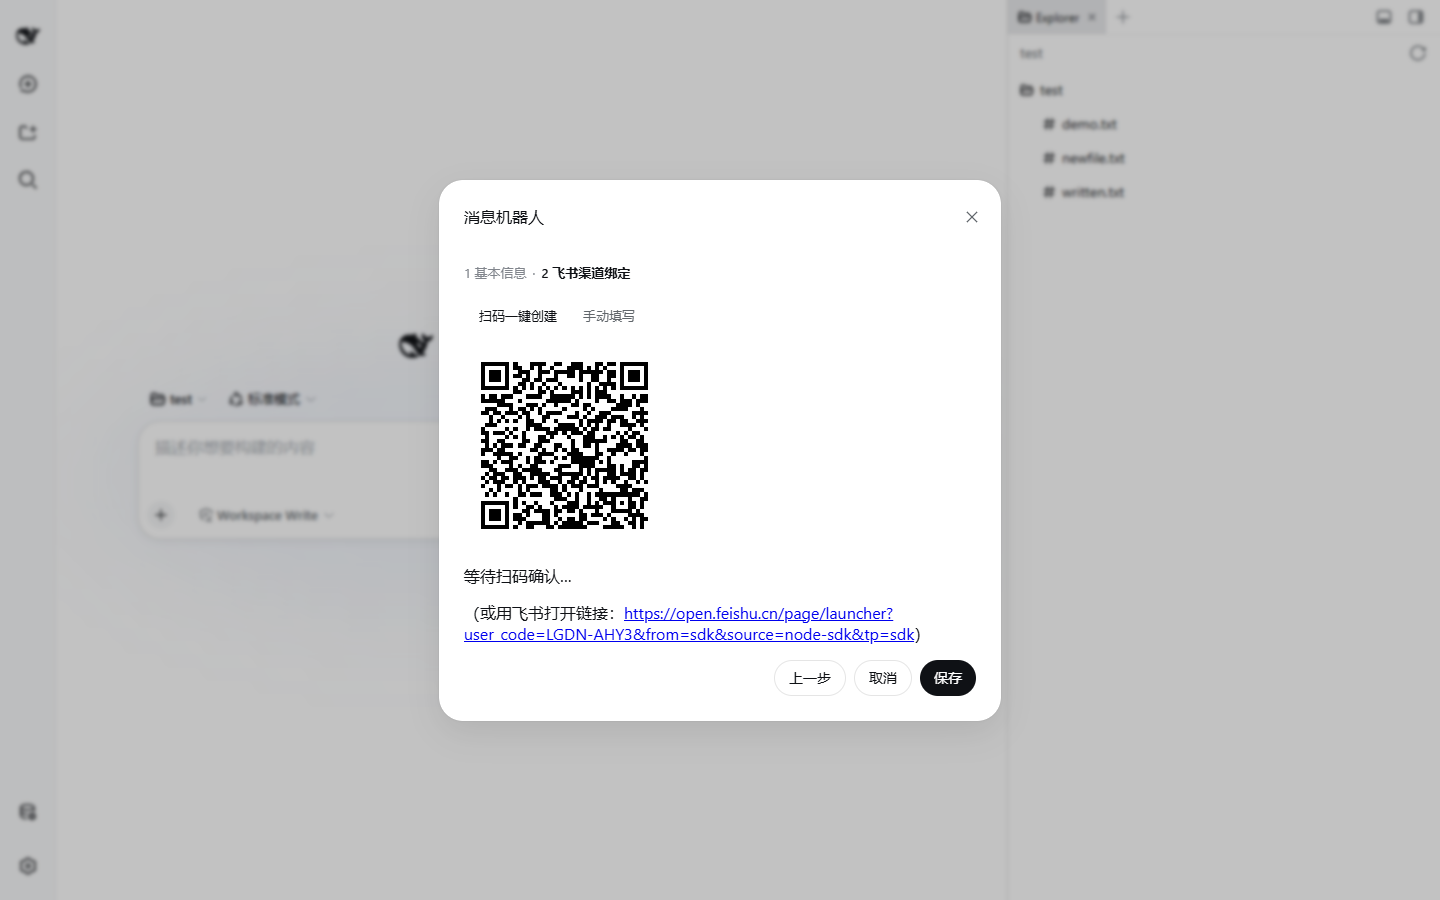
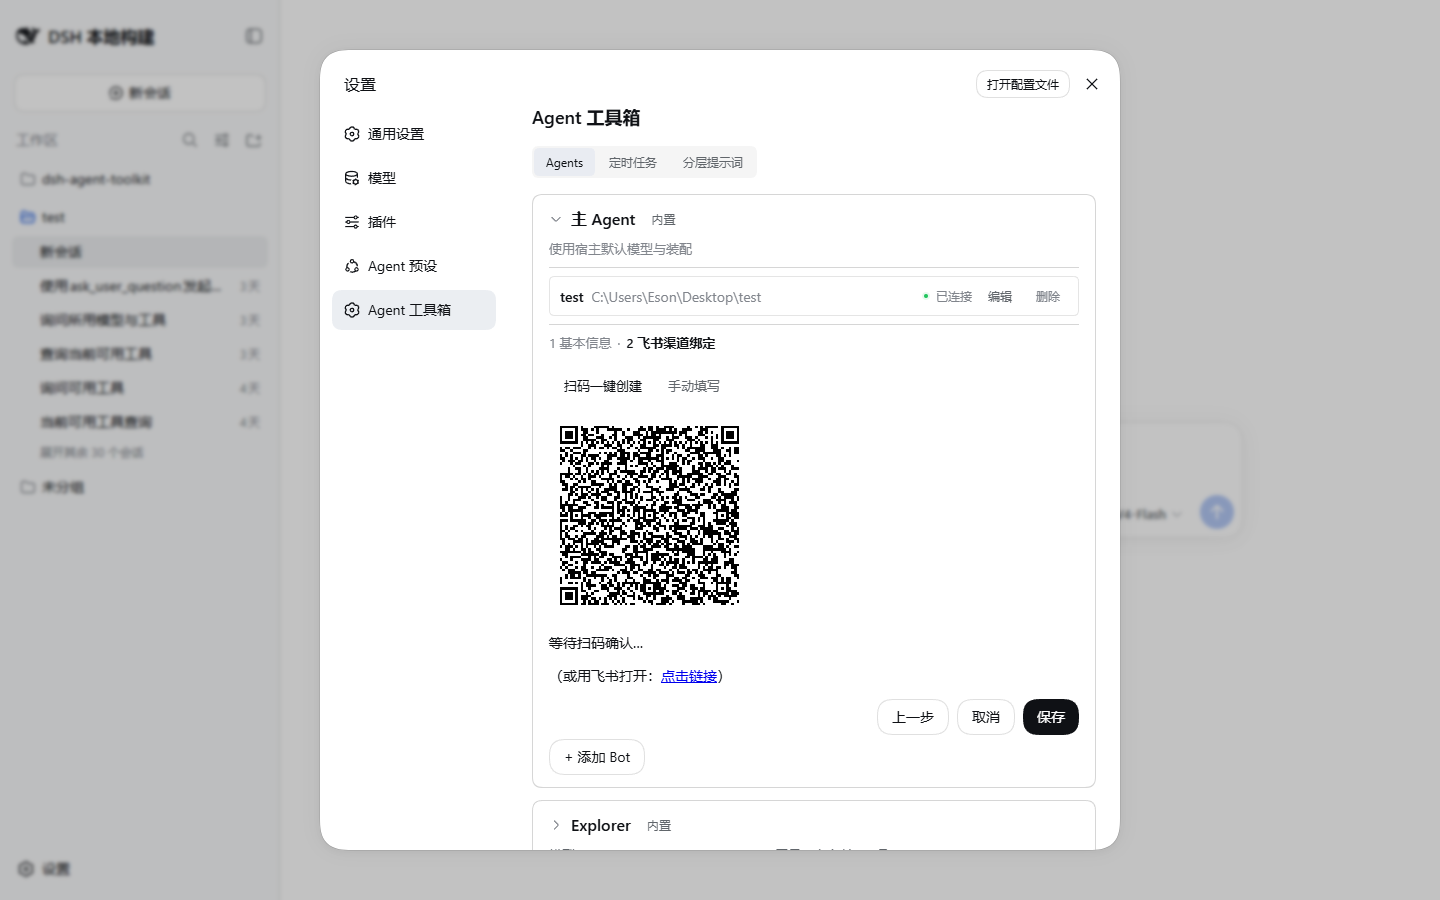
docs: 使用手册截图重拍——设置面板三 tab 实图 + 用量新入口/趋势 tab，删除过时弹窗截图

diff --git a/packages/toolkit/README.md b/packages/toolkit/README.md
@@ -54,7 +54,7 @@ dsh plugin --profile <profile 名> add dsh-agent-toolkit
 
 宿主**设置面板 → 「Agent 工具箱」→ Agents** tab（页内三 tab：Agents / 定时任务 / 分层提示词）创建/编辑/删除角色。页面为卡片流，按创建时间升序，`main` 置顶只读，编辑/新建内联展开；飞书 Bot 列表也并入各 Agent 卡片。每个角色有 id、名称、描述、persona 提示词、可选模型覆盖、可选工具白名单（团队 preset 工具 + 全局工具，仅白名单语义）。首次激活时把 `$DSH_HOME/agent-team/roles/*.yml` 一次性导入。
 
-> 截图待补拍（设置面板收编后界面已变）。
+![Agents 页卡片流：main 恒置顶，卡片内联 Bot 列表](https://raw.githubusercontent.com/EsonXie/dsh-agent-toolkit/master/docs/usage/images/agents-cards.png)
 
 ### 分层提示词
 
@@ -68,11 +68,11 @@ dsh plugin --profile <profile 名> add dsh-agent-toolkit
 
 在**设置面板 → 「Agent 工具箱」→ Agents** 的各 Agent 卡片下方管理该 Agent 名下的 Bot（归属锁定，不可改绑）。两步创建：绑定项目（归属 `main` 时另配 Provider/模型；归角色则继承角色装配），再绑定飞书应用——扫码一键创建（OAuth 2.0 Device Authorization Grant，密钥只入 credentials 不落表）或手动填 App ID / App Secret。群聊需 @机器人；运维指令 `/new`、`/stop`、`/status`。
 
-> 截图待补拍（Bot 列表已并入 Agents 卡片）。
+![Bot 两步创建向导：第 2 步扫码一键创建飞书应用](https://raw.githubusercontent.com/EsonXie/dsh-agent-toolkit/master/docs/usage/images/bots-form-feishu.png)
 
 ### Token 用量
 
-侧边栏底栏「Token 用量」：13 周活动热力图 + 单日堆叠图（按模型/按项目/压缩单列）；或在任意会话运行 `/token-usage [YYYY-MM-DD]`。
+会话标题栏右上角「Token 用量」：13 周活动热力图（点击跳单日）+ 趋势范围查询（单日按小时/多日按天堆叠图，按模型/按项目/压缩聚合）；或在任意会话运行 `/token-usage [YYYY-MM-DD]`。
 
 ![Token 用量面板](https://raw.githubusercontent.com/EsonXie/dsh-agent-toolkit/master/docs/usage/images/usage-modal.png)
 

diff --git a/docs/usage/prompt-layers.md b/docs/usage/prompt-layers.md
@@ -2,7 +2,7 @@
 
 把系统提示词组织成有序的语义层（layers），再按当前模型用规则（rules）整体替换或追加文本——同一份配置下，Claude、GPT、Gemini、Kimi 等不同模型家族自动获得各自适配的提示词。该机制对主 Agent 与委派子 Agent 都生效，无需手工干预。
 
-> 截图待补拍：设置面板收编后本页为纵向四层卡片（原「左栏层栈 + 右栏编辑区」弹窗截图已过时）。
+![分层提示词页：顶部说明区 + 纵向四层卡片](images/prompt-layers.png)
 
 ## 分层结构
 
@@ -29,7 +29,7 @@
 
 - 身份层 `harness:identity`（可覆盖，无只读徽标）→ **模型层**（只读，卡内 tab 切换「内置默认」与各 `overrides.base` 规则查看文本，并显示来源注）→ **persona**（可编辑层文本，带编写指引与两个示例模板一键填入：资深代码评审 / 谨慎的运维助手）→ **动态层** `model-notes`（默认折叠的只读卡，展示各 `append` 规则文本；无 append 规则时显示空态提示）。
 
-> 模型层 / model-notes / identity 覆盖截图待补拍。
+![身份层展开（覆盖文本，占位灰字即原生内容）与模型层展开（规则 tab + 只读文本 + 来源注）](images/prompt-layers-detail.png)
 
 - 可编辑：身份层卡显示「身份段覆盖文本」textarea（placeholder 为原生句，填写整份替换、留空还原原生）；persona 卡可编辑「层文本」。保存全量替换。服务端同样拒绝结构变更（增/删/改名/改序返回 400）。
 - 「重置为默认层」用 cordis.yml 的 `layers` 种子覆盖当前层，**连带清空 identity 覆盖**（覆盖性操作，需确认）。

diff --git a/docs/usage/token-usage.md b/docs/usage/token-usage.md
@@ -25,7 +25,9 @@ dsh plugin --profile <profile 名> add @dsh-agent-toolkit/token-usage
 
 ## Web 面板
 
-点击**会话标题栏右上角** utilities 区的「Token 用量」图标，模态框分两个 tab：
+点击**会话标题栏右上角** utilities 区的「Token 用量」图标（仪表盘图标，悬停出 Tooltip），模态框分两个 tab：
+
+![会话标题栏右上角的「Token 用量」入口（悬停显示 Tooltip）](images/usage-entry.png)
 
 **活动 tab**：近 13 周活动热力图（7 行 × 13 列，GitHub 风格）。格子颜色深浅表示当日计费总量档位（0-4 共 5 档），悬停显示当日具体用量（日期 + 总量 + 调用次数），点击某天跳转到趋势 tab 并定位该单日。
 
@@ -39,7 +41,7 @@ dsh plugin --profile <profile 名> add @dsh-agent-toolkit/token-usage
 - 聚合明细：按模型、按项目两个维度；上下文压缩单列展示（有压缩时）
 - 热力图点击某天即切到本 tab 的单日视图
 
-![趋势 tab：范围柱状图 + 汇总 + 按模型/按项目细分](images/usage-daily.png)
+![趋势 tab：范围柱状图 + 汇总 + 按模型/按项目细分](images/usage-trend.png)
 
 ## 命令行
 

diff --git a/docs/usage/README.md b/docs/usage/README.md
@@ -15,7 +15,7 @@
 
 > 2026-09-17 设置面板收编：原侧边栏底栏的 Agents / 消息机器人 / 定时任务 / 分层提示词四个弹窗已统一迁入宿主**设置面板 → 「Agent 工具箱」**（页内三 tab：Agents（含 Bots）/定时任务/分层提示词）；Token 用量入口已迁至会话标题栏右上角（2026-09-20）。
 >
-> 界面截图存于 `images/`。以下截图**待补拍**（界面已变）：Agents 卡片流、设置面板三 tab、飞书 Bot 内联表单、定时任务行式列表、分层提示词四层卡、Token 用量新入口与趋势 tab；委派卡待真实委派后补拍。
+> 界面截图存于 `images/`（2026-09-21 已按设置面板收编 + 用量新入口重拍）。仍待补拍：委派卡（需真实 `team_delegate` 调用）、飞书审批卡（需真实审批）。
 
 ## 安装与激活
 

diff --git a/docs/usage/cron-tasks.md b/docs/usage/cron-tasks.md
@@ -12,7 +12,9 @@
 
 宿主**设置面板 → 「Agent 工具箱」→ 定时任务**：整页任务行列表，每行显示名称、cron 人类可读描述（如「每天 09:00」）、执行目标、启用开关与下次触发时间；**点击行展开运行历史**。行内操作：编辑、立即触发、删除（两段确认）；启用开关**行内即时生效**并弹 toast。点「新建任务」切换为整页创建表单（cron 表达式实时预览未来 3 次触发；编辑同样切换为整页表单，保存/取消后回到列表）。
 
-> 截图待补拍（设置面板收编后由弹窗改为整页行式列表）。
+![定时任务整页行式列表：点击行展开运行历史](images/cron-list.png)
+
+![新建任务表单：cron 表达式实时预览未来 3 次触发](images/cron-form.png)
 
 ## 字段
 

diff --git a/docs/usage/feishu-bots.md b/docs/usage/feishu-bots.md
@@ -2,7 +2,7 @@
 
 把一个 dsh Agent 绑定到飞书（Lark）自建应用，就能在飞书单聊/群聊里直接和 Agent 对话：消息走长连接接收，回复以流式卡片实时更新。
 
-> 截图待补拍：Bot 列表已并入设置面板 Agents 页的各 Agent 卡片（原「消息机器人」弹窗截图已过时）。
+![Bot 列表并入 Agents 页各 Agent 卡片（连接状态点 + 编辑/删除）](images/agents-cards.png)
 
 ## 打开面板
 
@@ -12,7 +12,7 @@
 
 **第 1 步：基本信息**
 
-> 创建表单截图待补拍（已内联在 Agent 卡片内，无「绑定 Agent」字段）。
+![创建向导第 1 步：基本信息（内联在 Agent 卡片内，无「绑定 Agent」字段）](images/bots-form.png)
 
 | 字段 | 说明 |
 |---|---|

diff --git a/packages/usage/README.md b/packages/usage/README.md
@@ -13,7 +13,7 @@ DeepSeek Harness plugin: per-day token usage statistics — 13-week heatmap, sta
 
 ![Token 用量面板：13 周活动热力图](https://raw.githubusercontent.com/EsonXie/dsh-agent-toolkit/master/docs/usage/images/usage-modal.png)
 
-![单日堆叠图](https://raw.githubusercontent.com/EsonXie/dsh-agent-toolkit/master/docs/usage/images/usage-daily.png)
+![趋势 tab：范围堆叠柱状图 + 汇总 + 按模型/按项目细分](https://raw.githubusercontent.com/EsonXie/dsh-agent-toolkit/master/docs/usage/images/usage-trend.png)
 
 ## 安装
 
